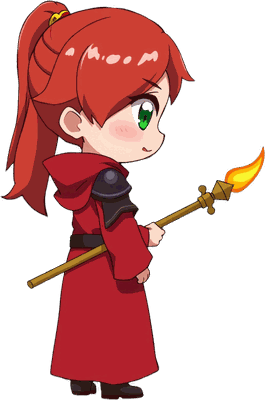
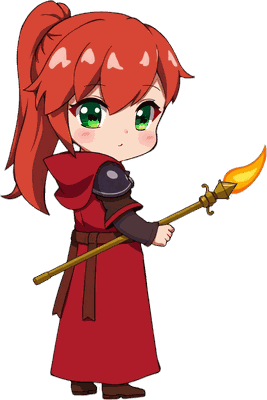
v0.79.0: 「紅蓮の戦導士」の絵を戻し、黒目だけを右へ寄せる
前の版で視線をプロンプトに書いたら、顔だけでなく体まで回って
真横向きになってしまった。絵を v0.77.0 のものに戻し、視線は
描き直さずに黒目の位置で直す。

視線の指示は gen_poses.py から外した。「体の向いている方を見る」と
足しただけで体まで回るので、この道具では視線だけを動かせない。

代わりに eye_shift.py を用意した。黒目を丸ごと動かすやり方は捨てて
ある。この絵柄は黒目が目のほぼ全部を占めていて白目が3〜5画素しか
無く、動かすと目尻で黒目が削れ、境目のぼかし画素も取り残されて
汚くなった(実際に試して確認)。輪郭は動かさず、中身(瞳孔・
ハイライト・陰)だけを右へ寄せている。

寄せ幅は黒目の幅の22%。左右の目で大きさが違うので画素数ではなく
割合で決める(同じ画素数だと小さい方だけ寄りすぎて寄り目になる)。
実際は 手前の目 +4px / 奥の目 +3px。

被弾は掛けていない。のけぞって顔をそむけるのが正しい姿で、
視線を前に向ける意味がないため。

Changed region(s): [[0.0, 0.0, 1.0, 0.84], [0.1811, 0.84, 0.6038, 1.0], [0.0906, 0.03, 0.1208, 0.06]]

diff --git a/shared/version.ts b/shared/version.ts
@@ -4,6 +4,6 @@
 // BUILD_DATE は npm run build のたびに tools/stamp-version.mjs が
 // 実際の時刻(日本時間)で書き換えるので、手で触らないこと。
 
-export const VERSION = '0.78.0';
-export const BUILD_DATE = '2026-08-07 15:53';
+export const VERSION = '0.79.0';
+export const BUILD_DATE = '2026-08-07 16:06';
 export const COPYRIGHT = 'Copyright © 2026 YuriPapa';

diff --git a/tools/artgen/eye_shift.py b/tools/artgen/eye_shift.py
@@ -1,0 +1,203 @@
+# 黒目(虹彩)だけを横にずらして、視線の向きを変える。
+#
+# 絵を描き直さずに視線を直したい時に使う。FLUX に視線を指示すると
+# 顔の向き・体の向き・衣装まで全部引き直されてしまい、視線以外が
+# 変わってしまうため(実際に「完全に右を向いてしまった」ことがある)。
+#
+#   python eye_shift.py player/3.png                … 黒目の幅の15%だけ右へ
+#   python eye_shift.py player/3.png --dx 3         … 画素数で指定する
+#   python eye_shift.py player/3.png --dry          … 書き込まずに測るだけ
+#
+# やっていること:
+#   1. 目の色の画素をかたまりに分け、顔の位置・大きさから「目」を選ぶ
+#   2. 穴(瞳孔・ハイライト)を埋めて「黒目まるごと」の形を作る
+#   3. その輪郭は動かさず、中身(瞳孔・ハイライト・陰)だけを右へ寄せる
+#
+# 黒目まるごと動かすやり方は捨てた。この絵柄は黒目が目のほぼ全部を占めていて
+# 白目が3〜5画素しか無く、動かすと目尻で黒目が削れて輪郭が欠ける。
+
+import argparse
+import os
+import sys
+
+HERE = os.path.dirname(os.path.abspath(__file__))
+PROJECT = os.path.abspath(os.path.join(HERE, '..', '..'))
+IMG_DIR = os.path.join(PROJECT, 'public', 'img')
+
+TOOLS_DIR = os.environ.get('ARTGEN_TOOLS', r'D:\ComfyUI\_tools')
+if os.path.isdir(TOOLS_DIR):
+    sys.path.insert(0, TOOLS_DIR)
+
+import numpy as np  # noqa: E402
+from PIL import Image  # noqa: E402
+
+MIN_AREA = 25       # これより小さいかたまりは目ではない(髪の艶や小物)
+
+
+def hsv(a):
+    """RGB(0-255)の配列から 明度(0-1)と 彩度(0-1)を出す。"""
+    mx = a[..., :3].max(2).astype(float)
+    mn = a[..., :3].min(2).astype(float)
+    sat = np.where(mx > 0, (mx - mn) / np.maximum(mx, 1), 0.0)
+    return mx / 255.0, sat
+
+
+def iris_mask(a, color):
+    """黒目(虹彩)の色をした画素。
+
+    髪や衣装にも同じ系統の色が使われることがあるので、ここでは
+    色だけで拾い、かたまりの大きさと位置で後から絞り込む。
+    """
+    r, g, b = a[..., 0].astype(int), a[..., 1].astype(int), a[..., 2].astype(int)
+    al = a[..., 3]
+    _, sat = hsv(a)
+    if color == 'green':
+        return (al > 200) & (sat > 0.30) & (g > 60) & (r < g - 30) & (b < g - 10)
+    if color == 'blue':
+        return (al > 200) & (sat > 0.30) & (b > 60) & (r < b - 30) & (g < b - 10)
+    if color == 'red':
+        return (al > 200) & (sat > 0.30) & (r > 60) & (g < r - 30) & (b < r - 30)
+    raise SystemExit(f'知らない目の色: {color}')
+
+
+def label(mask):
+    """4近傍のかたまり分け(scipy を使わずに済ませる)。"""
+    h, w = mask.shape
+    lab = np.zeros((h, w), int)
+    cur = 0
+    for y0 in range(h):
+        for x0 in range(w):
+            if not mask[y0, x0] or lab[y0, x0]:
+                continue
+            cur += 1
+            stack = [(y0, x0)]
+            lab[y0, x0] = cur
+            while stack:
+                y, x = stack.pop()
+                for dy, dx in ((1, 0), (-1, 0), (0, 1), (0, -1)):
+                    ny, nx = y + dy, x + dx
+                    if 0 <= ny < h and 0 <= nx < w and mask[ny, nx] \
+                            and not lab[ny, nx]:
+                        lab[ny, nx] = cur
+                        stack.append((ny, nx))
+    return lab, cur
+
+
+def fill_holes(m):
+    """かたまりの内側の穴を埋める(瞳孔とハイライトを黒目に含める)。
+
+    外側から届く「穴でない所」を塗りつぶし、残りが内側の穴。
+    """
+    h, w = m.shape
+    out = ~m
+    reach = np.zeros((h, w), bool)
+    stack = []
+    for x in range(w):
+        for y in (0, h - 1):
+            if out[y, x]:
+                stack.append((y, x))
+    for y in range(h):
+        for x in (0, w - 1):
+            if out[y, x]:
+                stack.append((y, x))
+    while stack:
+        y, x = stack.pop()
+        if reach[y, x] or not out[y, x]:
+            continue
+        reach[y, x] = True
+        for dy, dx in ((1, 0), (-1, 0), (0, 1), (0, -1)):
+            ny, nx = y + dy, x + dx
+            if 0 <= ny < h and 0 <= nx < w and out[ny, nx] and not reach[ny, nx]:
+                stack.append((ny, nx))
+    return m | (out & ~reach)
+
+
+def shift_eye(a, eye, dx):
+    """黒目の輪郭は動かさず、中身(瞳孔・ハイライト・陰)だけを dx 画素ずらす。
+
+    黒目まるごと動かすやり方は捨てた。この絵柄は黒目が目のほぼ全部を
+    占めていて白目が3〜5画素しかなく、動かすと黒目が目尻で削れて
+    輪郭が欠ける。境目のぼかし画素も取り残されて汚くなる。
+
+    そこで輪郭はそのままに、中の模様だけを寄せる。行ごとに
+    「黒目の左端より外を指したら左端の色を使う」で埋めるので、
+    欠けもにじみも出ない。
+    """
+    src = a.copy()
+    moved = 0
+    for y in range(eye.shape[0]):
+        row = np.nonzero(eye[y])[0]
+        if len(row) == 0:
+            continue
+        left = row[0]
+        for x in row:
+            sx = max(left, x - dx)          # 左端より外は左端の色で埋める
+            if sx != x:
+                a[y, x] = src[y, sx]
+                moved += 1
+    return moved
+
+
+def process(path, color, dx, ratio, dry):
+    im = Image.open(path).convert('RGBA')
+    a = np.asarray(im).astype(np.uint8).copy()
+    m = iris_mask(a, color)
+    lab, n = label(m)
+
+    eyes = []
+    for i in range(1, n + 1):
+        blob = lab == i
+        area = int(blob.sum())
+        if area < MIN_AREA:
+            continue
+        ys, xs = np.nonzero(blob)
+        eyes.append((area, blob, xs.min(), xs.max(), ys.min(), ys.max()))
+    if not eyes:
+        print(f'  {os.path.basename(path)}: 目が見つからない')
+        return False
+
+    # 目は上の方(顔)にある。いちばん大きいかたまりの高さを基準にして、
+    # そこから離れた所にある同じ色のかたまり(衣装の飾りなど)は外す。
+    eyes.sort(key=lambda e: -e[0])
+    base_y = (eyes[0][4] + eyes[0][5]) / 2
+    eyes = [e for e in eyes if abs((e[4] + e[5]) / 2 - base_y) <= 12][:2]
+
+    total = 0
+    for area, blob, x0, x1, y0, y1 in sorted(eyes, key=lambda e: e[2]):
+        eye = fill_holes(blob)
+        # 黒目の幅に対する割合でずらす。左右の目は大きさが違うので、
+        # 同じ画素数だけ動かすと小さい方だけ寄りすぎて寄り目になる。
+        step = dx if dx else max(1, round((x1 - x0 + 1) * ratio))
+        print(f'    目 x{x0}-{x1} y{y0}-{y1} 幅{x1 - x0 + 1}px 面積{area}'
+              f' → 中身を{step:+}px')
+        if not dry:
+            total += shift_eye(a, eye, step)
+
+    if dry:
+        return False
+    Image.fromarray(a).save(path)
+    print(f'  {os.path.basename(path)}: 黒目を右へずらした({total}px 描き替え)')
+    return True
+
+
+def main():
+    ap = argparse.ArgumentParser()
+    ap.add_argument('files', nargs='+', help='public/img からの相対パス')
+    ap.add_argument('--color', default='green', help='目の色 green/blue/red')
+    ap.add_argument('--dx', type=int, default=0,
+                    help='右へずらす画素数(0なら --ratio から決める)')
+    ap.add_argument('--ratio', type=float, default=0.15,
+                    help='黒目の幅に対する割合でずらす(既定 0.15)')
+    ap.add_argument('--dry', action='store_true', help='測るだけで書き込まない')
+    args = ap.parse_args()
+
+    for rel in args.files:
+        path = os.path.join(IMG_DIR, rel.replace('/', os.sep))
+        if not os.path.exists(path):
+            raise SystemExit(f'見つからない: {path}')
+        print(f'  {rel}')
+        process(path, args.color, args.dx, args.ratio, args.dry)
+
+
+if __name__ == '__main__':
+    main()

diff --git a/tools/artgen/gen_poses.py b/tools/artgen/gen_poses.py
@@ -207,15 +207,9 @@ def gen_player(subj, num, pose, seed=None):
     # 絵そのものを揃えないと並べた時に見劣りする)。
     body = s.get('body') or subj['player_body']
     view = s.get('view') or subj['player_view']
-    # 視線の指定(gaze)。顔がこちらを向きすぎる子にだけ足す。
-    #
-    # 左右で書いても FLUX は従わないので、「体の向いている方を見る」と
-    # 体の向きに結びつけて書く。こう書けば flip で左右を直した時に
-    # 視線も一緒に付いてくる。
-    # 被弾には効かせない。のけぞって顔をそむけるのが正しい姿で、
-    # そこに「前を見る」を足すと顔が壊れる(実際に一度壊した)。
-    if pose != 'hurt' and s.get('gaze'):
-        view = f"{view}, {s['gaze']}"
+    # 視線をここで指示してはいけない。「体の向いている方を見る」と足しただけで
+    # 顔だけでなく体まで回り、真横向きになってしまった(紅蓮で実際に起きた)。
+    # 視線だけ直したい時は絵を引き直さず、eye_shift.py で黒目を寄せること。
     p = (f"{view}, {s['prompt']}, {subj['player_poses'][pose]}, "
          f"{body}, {style_of(subj, False)}")
     img = generate(p, PLAYER_W, PLAYER_H, pose_seed(s, pose, seed))
